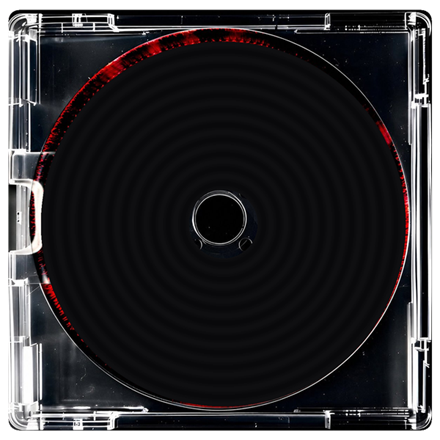
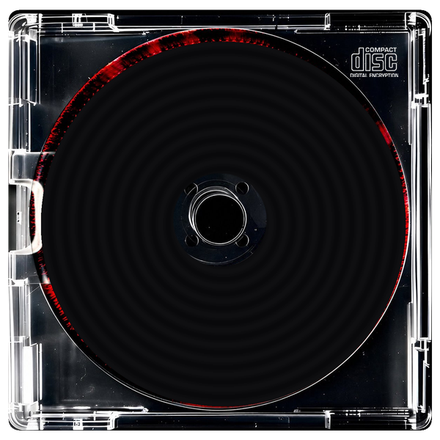
fix(#126): remove 3D case rectangular box halo and decouple stationary CD hub (#129)

diff --git a/site/index.html b/site/index.html
@@ -83,7 +83,7 @@
       border-radius: 6px;
       background-image: url('case-tray.png');
       background-size: cover;
-      box-shadow: 0 25px 60px rgba(0, 0, 0, 0.85), 0 0 40px rgba(6, 182, 212, 0.25);
+      filter: drop-shadow(0 20px 40px rgba(0, 0, 0, 0.85));
     }
     .case-disc {
       position: absolute;
@@ -122,30 +122,20 @@
       transform-origin: 0% 50%;
       transform-style: preserve-3d;
       transform: rotateY(-58deg);
-      transition: transform 0.9s cubic-bezier(0.2, 0.9, 0.2, 1), box-shadow 0.9s ease;
-      box-shadow: 15px 20px 45px rgba(0, 0, 0, 0.7);
-    }
-    .case-lid::after {
-      content: '';
-      position: absolute;
-      inset: 0;
-      border-radius: 6px;
-      background: linear-gradient(135deg, rgba(255, 255, 255, 0.22) 0%, transparent 45%, rgba(255, 255, 255, 0.08) 60%, transparent 100%);
-      pointer-events: none;
+      transition: transform 0.9s cubic-bezier(0.2, 0.9, 0.2, 1), filter 0.9s ease;
+      filter: drop-shadow(15px 20px 35px rgba(0, 0, 0, 0.65));
     }
     .case-container:hover .case-lid {
       transform: rotateY(-82deg);
-      box-shadow: 25px 30px 60px rgba(0, 0, 0, 0.85);
+      filter: drop-shadow(25px 30px 45px rgba(0, 0, 0, 0.75));
     }
     .case-container.closed .case-lid {
       transform: rotateY(0deg);
-      box-shadow: 0 10px 25px rgba(0, 0, 0, 0.5);
+      filter: drop-shadow(0 10px 20px rgba(0, 0, 0, 0.45));
     }
 
     /* the Tailwind utilities the original hero markup used, as plain CSS */
     .case-stage { display: inline-block; position: relative; user-select: none; text-align: center; }
-    .case-aura { position: absolute; inset: -2rem; border-radius: 9999px; pointer-events: none; opacity: 0.75; filter: blur(64px);
-      background-image: linear-gradient(to top right, rgb(225 29 72 / 0.3), rgb(147 51 234 / 0.25), transparent); }
     .case-wrapper { position: relative; cursor: pointer; }
     .case-status {
       margin-top: 1rem;
@@ -252,7 +242,6 @@
 
     <div class="cover">
       <div class="case-stage">
-        <div class="case-aura" aria-hidden="true"></div>
         <div class="case-wrapper perspective-1000" onclick="toggleCase()" id="case-wrapper" title="Click the disc to play · click the case to open / close">
           <div class="case-container" id="jewel-case-box">
             <div class="case-tray"></div>
